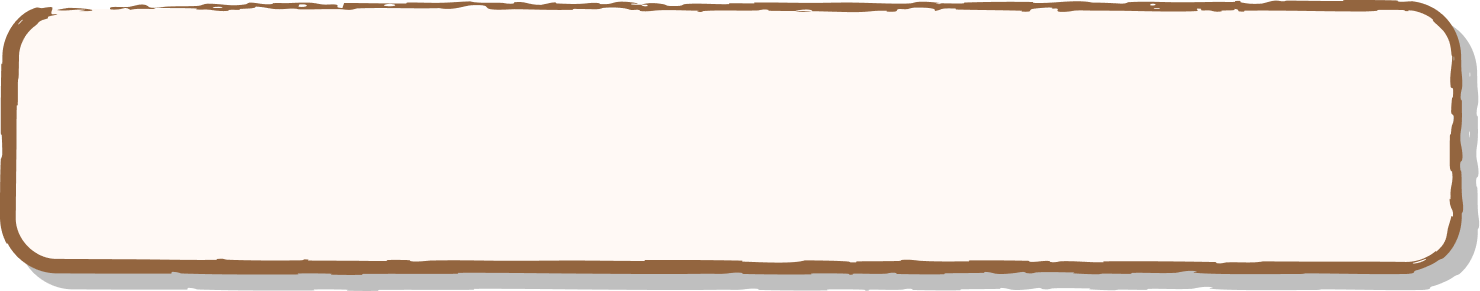
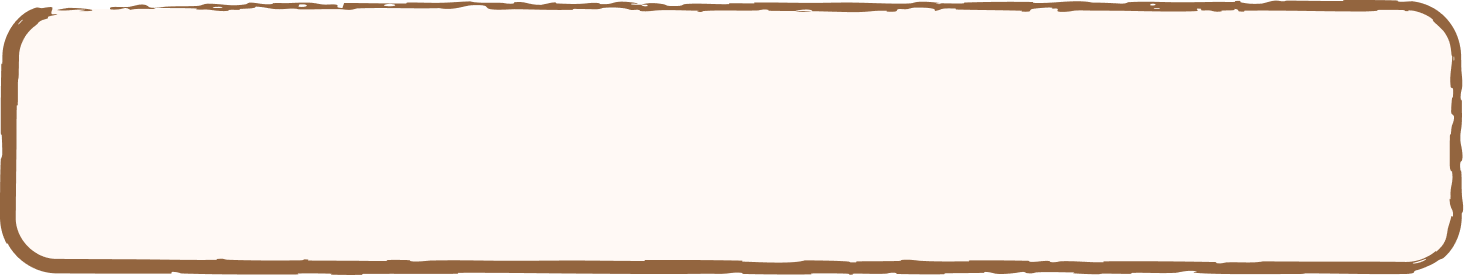
feat(achievements): cập nhật player-bg không shadow và cấu hình shadow CSS sắc nét

Changed region(s): [[0.0, 0.0, 1.0, 1.0], [0.0, 0.0582, 0.0307, 0.1164]]

diff --git a/src/styles/features/achievements.css b/src/styles/features/achievements.css
@@ -47,13 +47,13 @@
   display: flex;
   flex-direction: row;
   align-items: center;
-  padding: 8px 18px 16px 14px;
+  padding: 12px 16px;
   gap: 16px;
   background: url('/player-bg.png') no-repeat center / 100% 100%;
   border: none;
-  box-shadow: none;
-  border-radius: 0;
-  min-height: 71px;
+  border-radius: var(--radius-md);
+  box-shadow: 4px 4px 0px rgba(0, 0, 0, 0.25);
+  min-height: 68px;
 }
 
 .achievements-user-profile {
